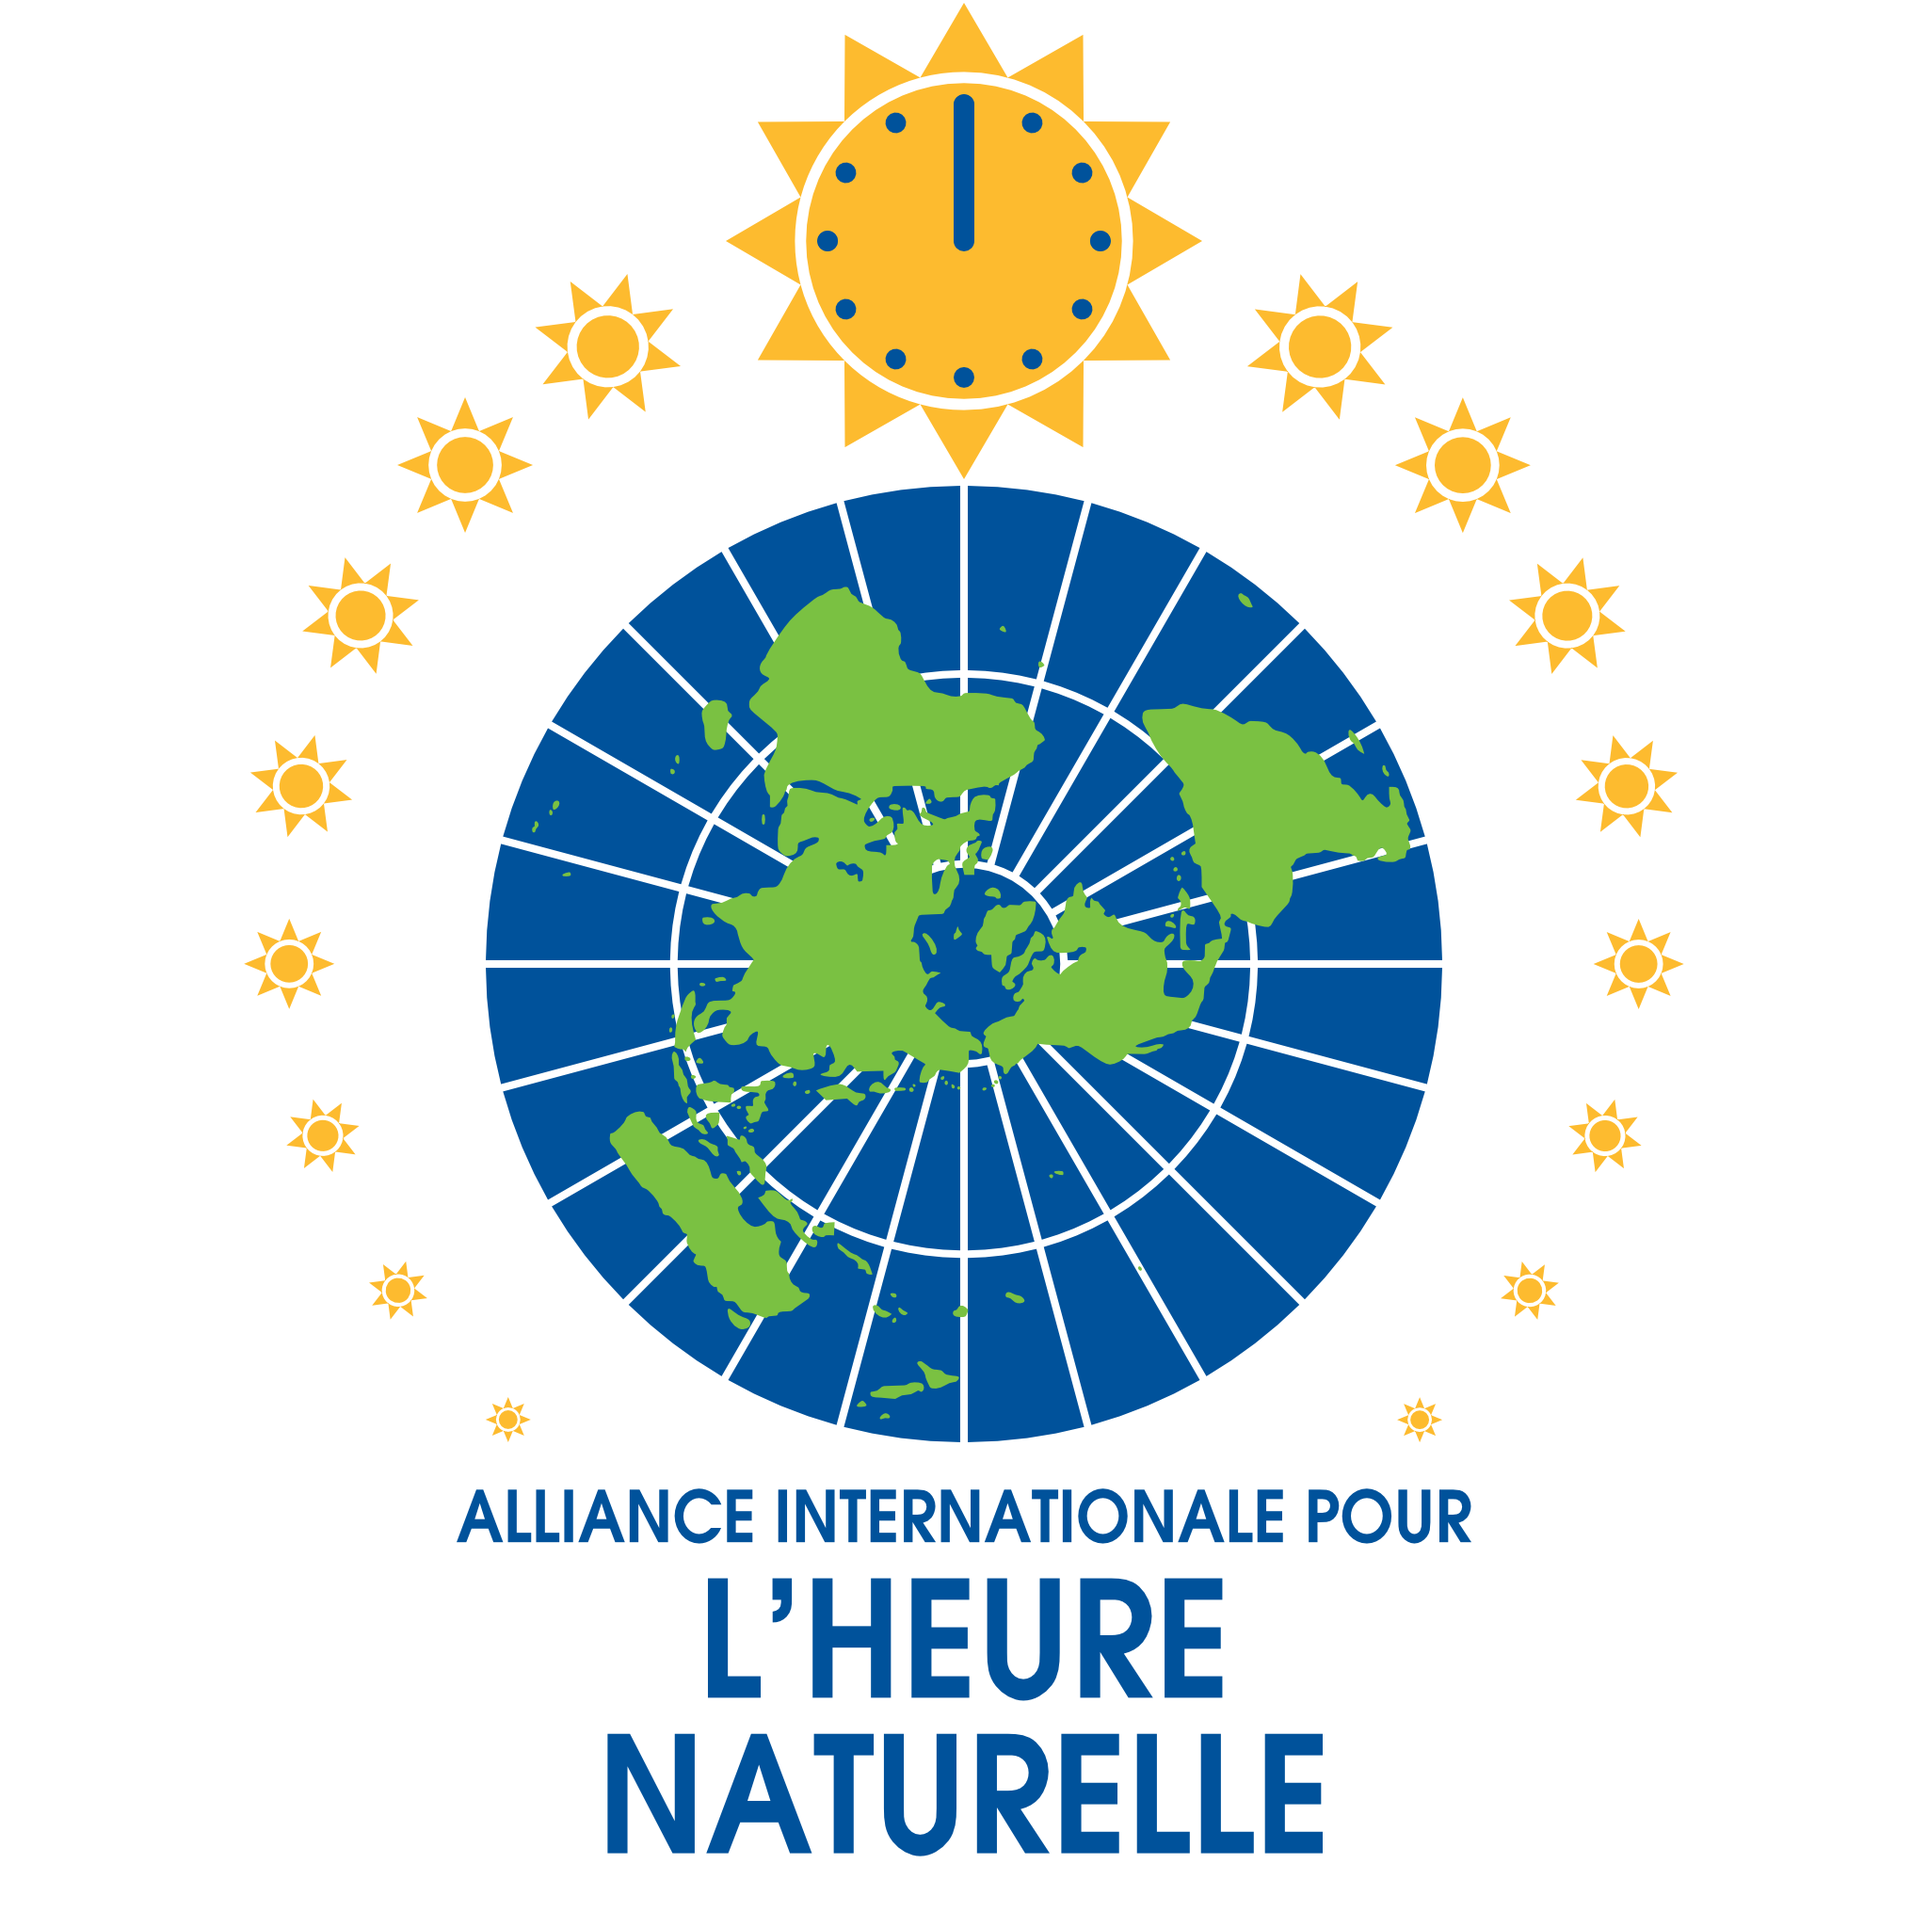
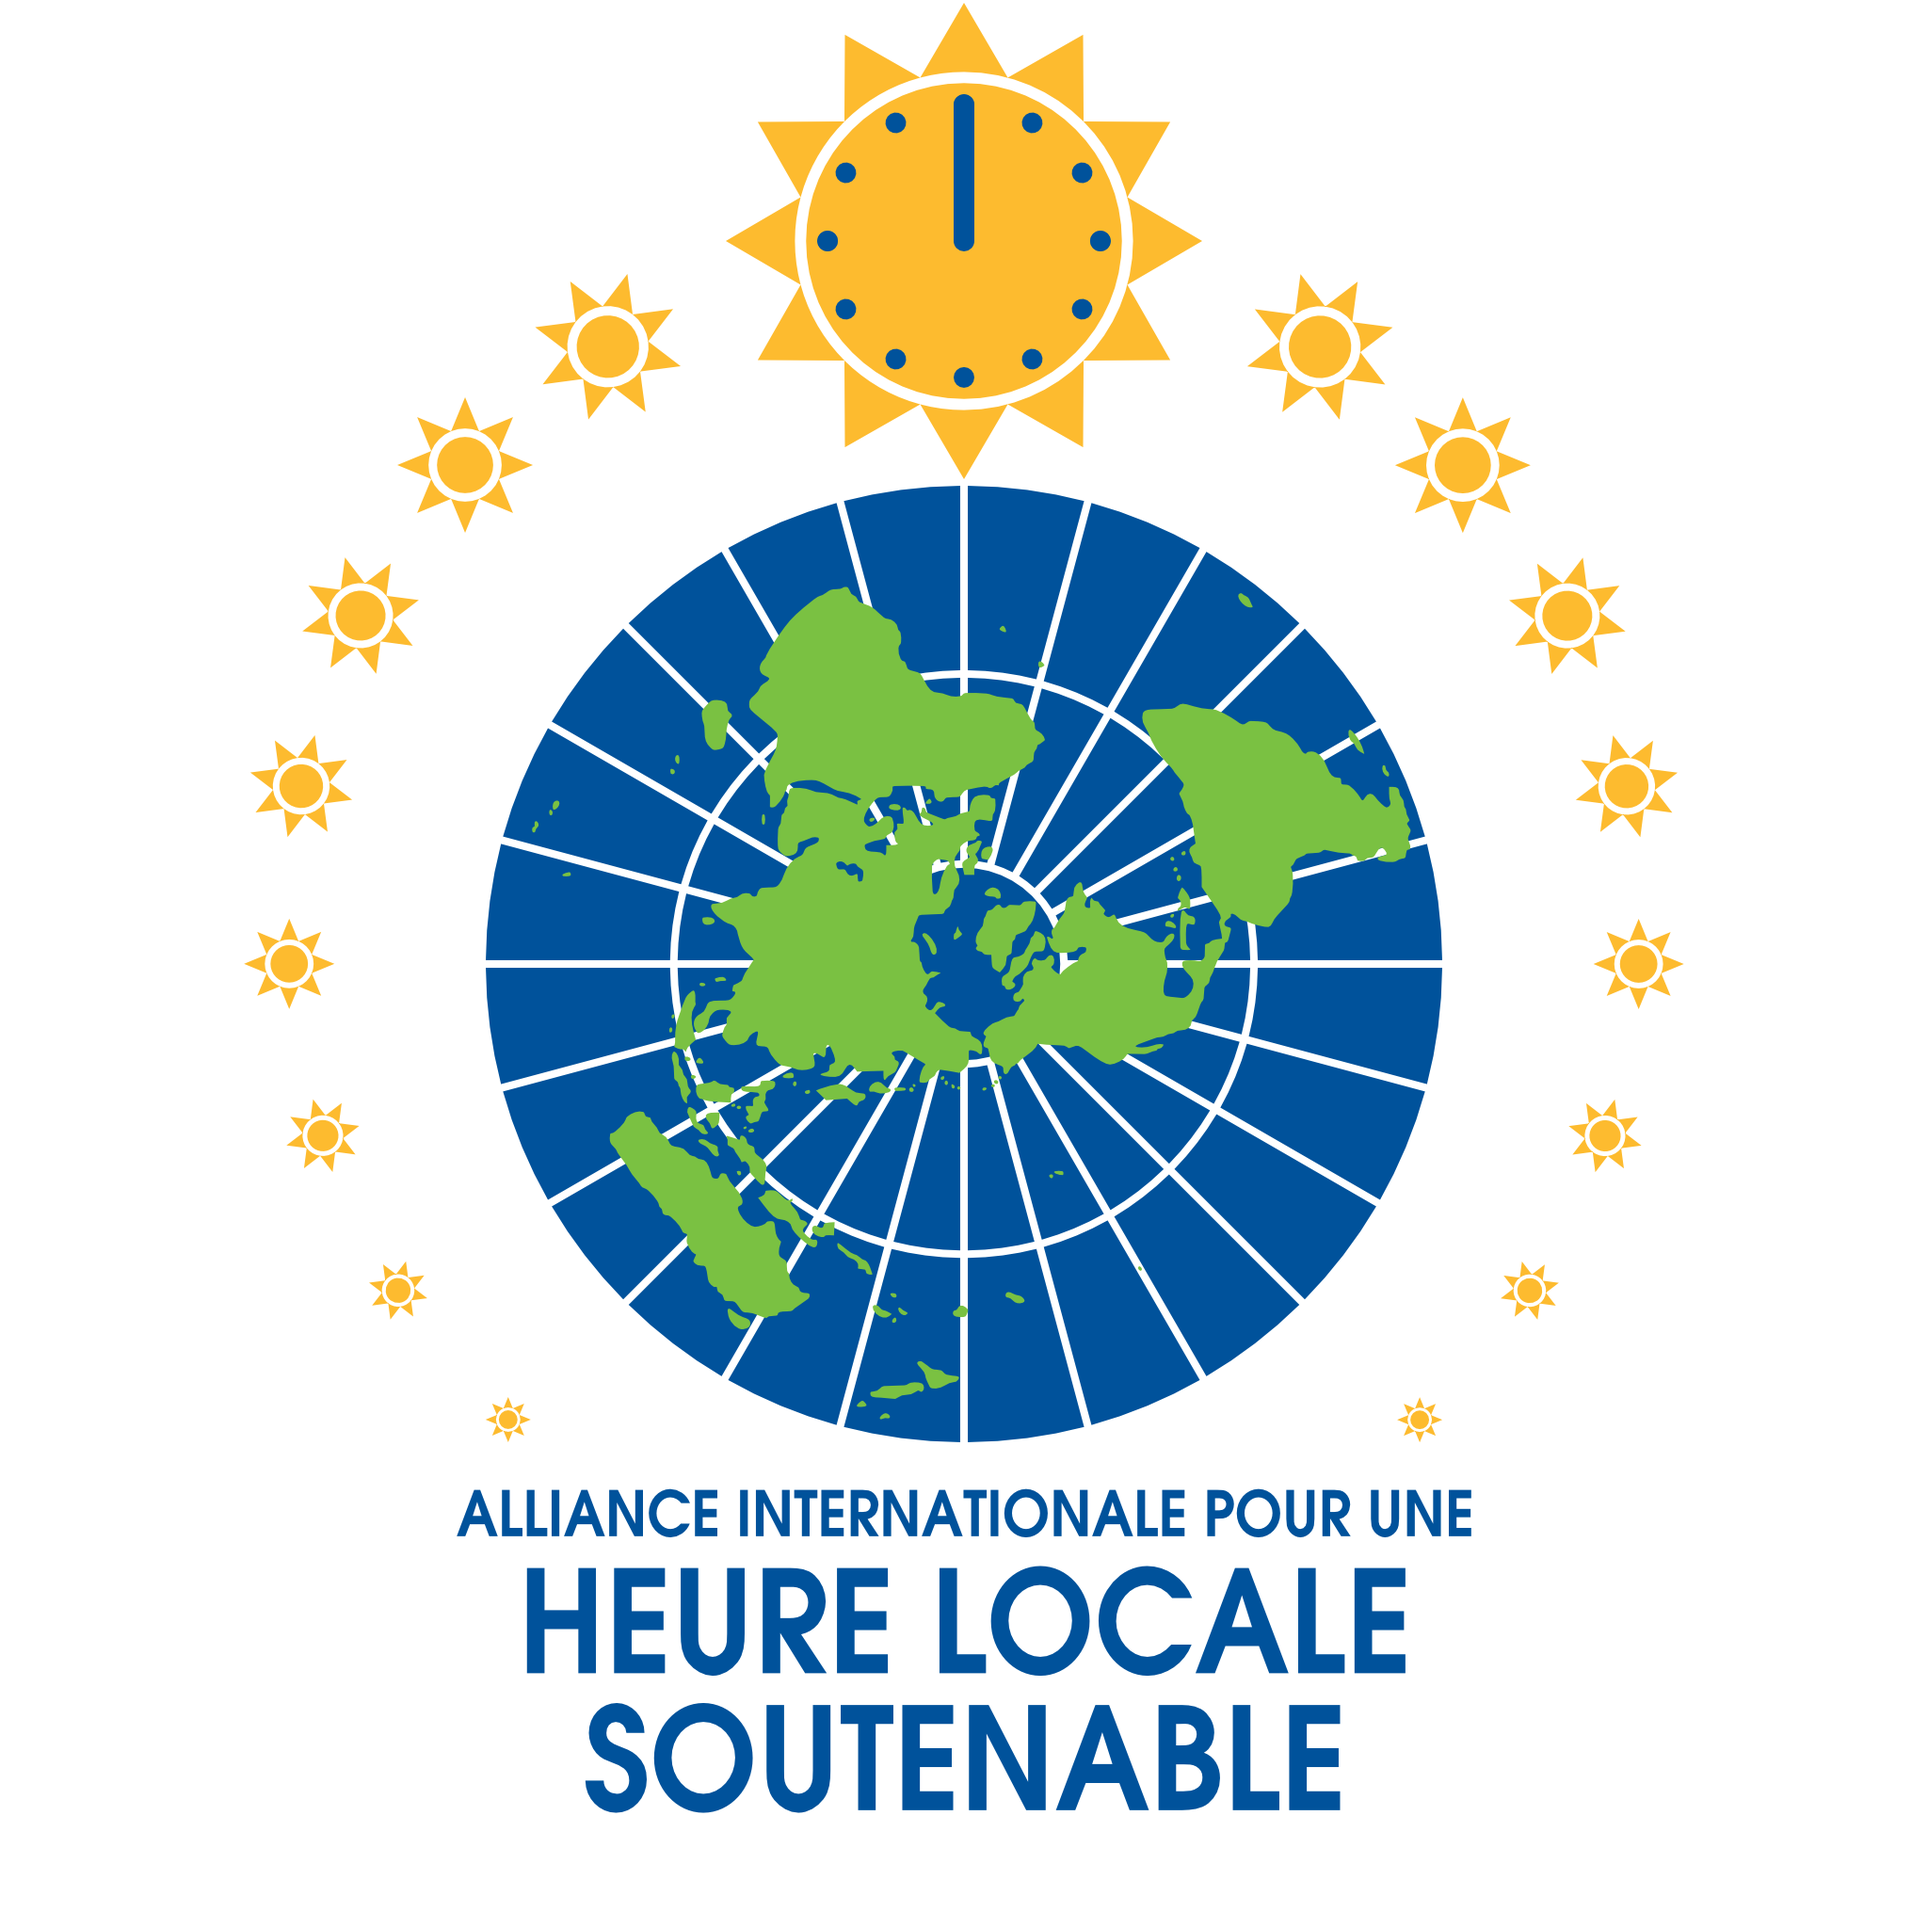
Change French name.

Changed region(s): [[0.25, 0.75, 0.7812, 0.9688]]

diff --git a/fr/index.html b/fr/index.html
@@ -2,7 +2,7 @@
 <html lang="fr">
     <head>
         <meta charset="UTF-8">
-        <title>Alliance Internationale pour l’Heure Naturelle</title>
+        <title>Alliance pour une Heure Locale Soutenable</title>
 
         <!-- Base appearance. -->
         <meta name="viewport" content="initial-scale=1.0">
@@ -25,14 +25,14 @@
         <meta name="keywords" content="Activisme, Plaidoyer, Australasie, Changement d’horloge, Ditch the Switch, DST, Union européenne, Global, Verrouiller la serrure, Heure naturelle, Amérique du Nord, Heure d’été permanente, Heure standard permanente, Heure solaire, Heure d’été, Changement d’heure, Fuseau horaire , Heure universelle, Heure d’hiver, Heure d’été toute l’année, Heure standard toute l’année, Heure zoulou">
         <link rel="canonical" href="http://naturaltimealliance.org/fr/">
         <meta name="twitter:card" content="summary">
-        <meta name="twitter:title" content="Alliance Internationale pour l’Heure Naturelle">
+        <meta name="twitter:title" content="Alliance pour une Heure Locale Soutenable">
         <!-- <meta name="twitter:description" content="123456789 123456789 123456789 123456789 123456789 123456789 123456789 123456789 123456789 123456789 123456789 123456789.">Twitter limit 120 characters. -->
         <meta name="twitter:description" content="Nous préconisons que les horloges soient réglées toute l’année sur l’heure locale qui soit durable pour chaque État.">
         <meta name="twitter:site" content="@">
         <meta name="twitter:image" content="http://naturaltimealliance.org/images/share-site-twitter.png?v=3">
         <meta name="twitter:image:alt" content="logo">
         <meta property="og:type" content="website">
-        <meta property="og:title" content="Alliance Internationale pour l’Heure Naturelle">
+        <meta property="og:title" content="Alliance pour une Heure Locale Soutenable">
         <!-- <meta property="og:description" content="123456789 123456789 123456789 123456789 123456789 123456789 123456789.">Facebook limit 70 characters. -->
         <meta property="og:description" content="Nous préconisons que les horloges soient réglées sur l’heure locale qui soit durable.">
         <meta property="og:url" content="http://naturaltimealliance.org/">
@@ -64,7 +64,7 @@
         <main>
             <div class="width-limit">
 
-                <img alt="Alliance Internationale pour l’Heure Naturelle" class="site-logo" src="../images/iant-fr.png">
+                <img alt="Alliance pour une Heure Locale Soutenable" class="site-logo" src="../images/iant-fr.png">
 
                 <section class="prose mission">
                     <p>Nous préconisons une observation permanente et mondiale des fuseaux horaires qui sont naturellement appropriés pour la longitude de chaque État, car la science et l’histoire le montrent, ce qui garantit les meilleures conditions pour la santé, la sécurité, l’éducation, le travail, l’économie, l’environnement et les droits de l’homme.</p>
@@ -218,7 +218,7 @@
                 </section>
 
                 <section class="prose platform">
-                    <h1>Platforme de l’Alliance Internationale pour l’Heure Naturelle</h1>
+                    <h1>Platforme de l’Alliance pour une Heure Locale Soutenable</h1>
                     <p>Plusieurs médecins, scientifiques, défenseurs de la santé et organisations ont formé une alliance internationale pour sensibiliser le public à la nécessité d’une observation officielle des fuseaux horaires solaires qui sont naturellement appropriés à chaque État.</p>
                     <details>
                         <summary>lire la suite…</summary>
@@ -237,7 +237,7 @@
 
         <footer>
             <div class="width-limit">
-                <h1>Alliance Internationale pour l’Heure Naturelle</h1>
+                <h1>Alliance pour une Heure Locale Soutenable</h1>
                 <address>
                     <a class="email" href="mailto:info@naturaltimealliance.org" title="Email">info@naturaltimealliance.org</a>
                 </address>
